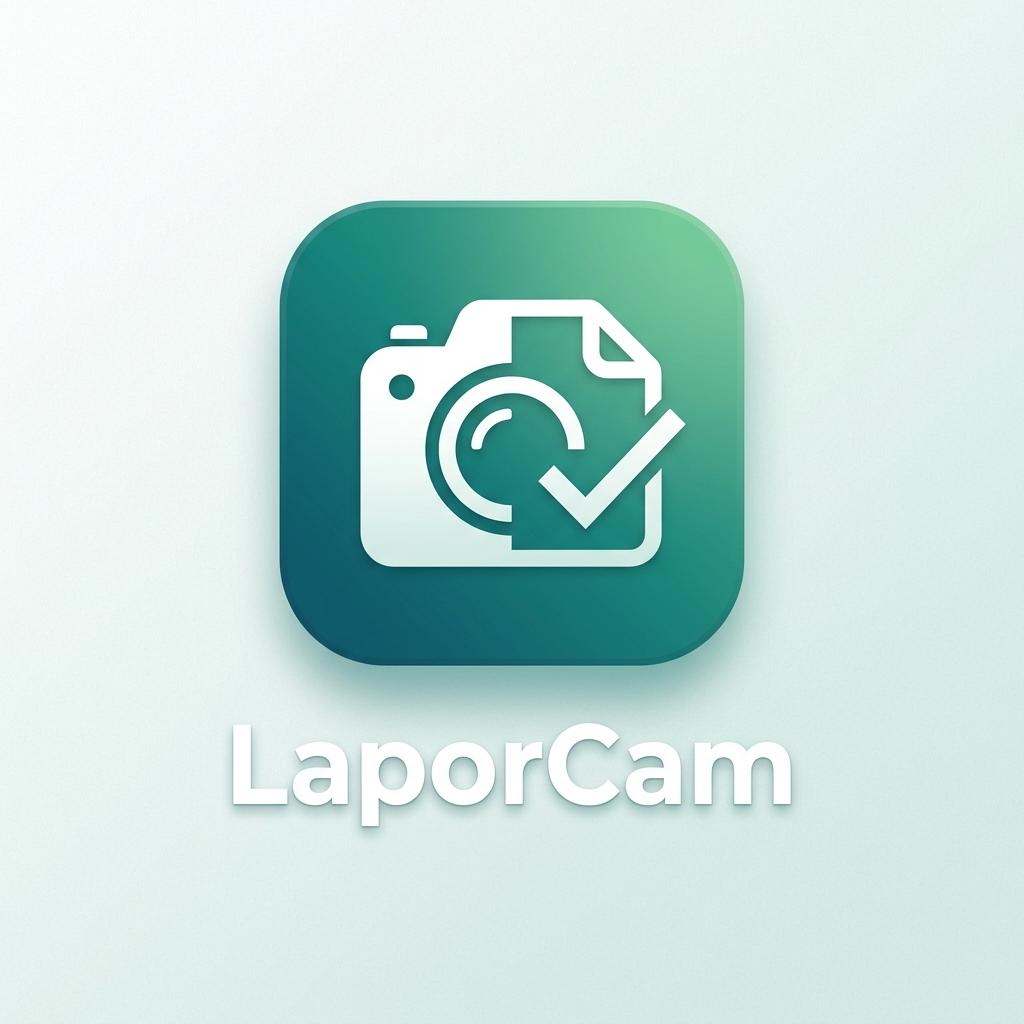
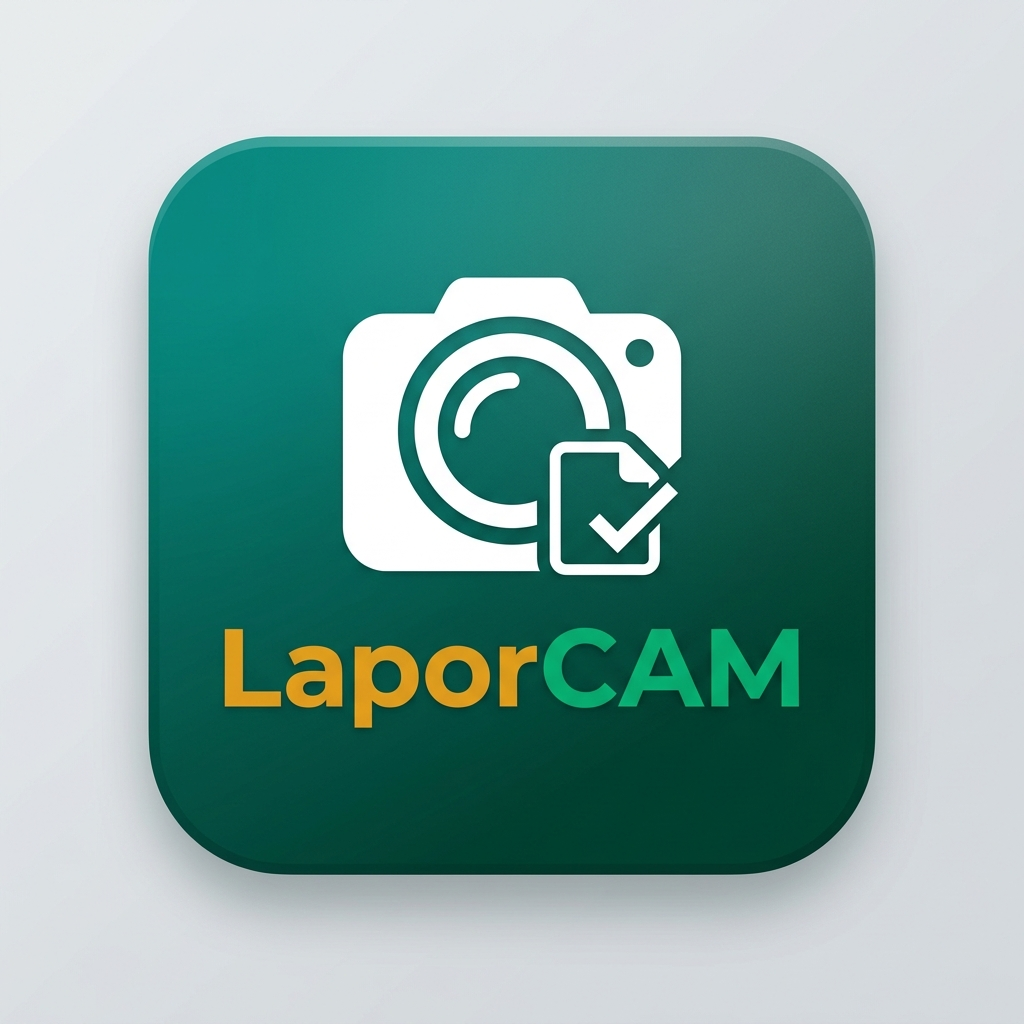
LaporCAM

diff --git a/style-mobile.css b/style-mobile.css
@@ -5,26 +5,28 @@
 
 @media (max-width: 768px) {
 
-  /* ----- RESET BODY AGAR BISA SCROLL PROPORSIAL ----- */
+  /* ----- RESET BODY TOTAL NO-SCROLL (FIT LAYAR HP) ----- */
   html, body {
-    overflow-x: hidden !important;
-    overflow-y: auto !important;
-    height: 100% !important;
-    min-height: 100dvh !important; /* Menggunakan Dynamic Viewport Height */
+    overflow: hidden !important; /* Blokir total scrolling luar */
+    height: 100dvh !important;
+    min-height: 100dvh !important;
     background-color: #f1f5f9 !important;
+    margin: 0 !important;
+    padding: 0 !important;
   }
 
   /* ----- APP CONTAINER ----- */
   .app-container {
     width: 100% !important;
     max-width: 100vw !important;
+    height: 100dvh !important;
+    max-height: 100dvh !important;
     padding: 8px !important;
-    height: auto !important;
-    max-height: none !important;
     gap: 6px !important;
     box-sizing: border-box !important;
     display: flex !important;
     flex-direction: column !important;
+    overflow: hidden !important; /* Kunci semua elemen agar muat satu layar */
     /* Ruang untuk bottom nav */
     padding-bottom: calc(72px + env(safe-area-inset-bottom)) !important;
   }
@@ -51,6 +53,7 @@
 
   .logo-icon i {
     font-size: 16px !important;
+    color: #0f172a !important; /* Diubah menjadi gelap arang agar sangat kontras dan terlihat jelas */
   }
 
   .logo-text h1 {
@@ -75,9 +78,11 @@
     border-radius: 16px !important;
     padding: 14px !important;
     gap: 10px !important;
-    overflow: visible !important;
+    overflow: hidden !important; /* Kunci main card */
     height: auto !important;
-    flex: none !important;
+    flex: 1 !important; /* Isi ruang sisa container secara fleksibel */
+    display: flex !important;
+    flex-direction: column !important;
   }
 
   /* ----- STEP INDICATOR (Sembunyikan di mobile) ----- */
@@ -89,8 +94,9 @@
   .step-content {
     display: none !important;
     flex-direction: column !important;
-    overflow: visible !important;
+    overflow: hidden !important; /* Kunci content */
     height: auto !important;
+    flex: 1 !important; /* Isi ruang sisa card */
   }
 
   .step-content.active {
@@ -119,9 +125,11 @@
     display: flex !important;
     flex-direction: column !important;
     gap: 8px !important;
-    overflow: visible !important;
-    height: auto !important;
+    overflow-y: auto !important; /* Scroll hanya terjadi di dalam form saja jika melebihi layar */
+    -webkit-overflow-scrolling: touch !important;
+    flex: 1 !important;
     width: 100% !important;
+    padding-right: 2px !important;
   }
 
   /* form-row (Hari & Tanggal + Waktu) tetap 2 kolom tapi kompak */

diff --git a/index.html b/index.html
@@ -22,8 +22,8 @@
   <link rel="icon" type="image/png" href="icon-192.png">
   
   <!-- Custom CSS -->
-  <link rel="stylesheet" href="style.css?v=2.8">
-  <link rel="stylesheet" href="style-mobile.css?v=2.8">
+  <link rel="stylesheet" href="style.css?v=3.0">
+  <link rel="stylesheet" href="style-mobile.css?v=3.0">
   <!-- jsPDF & html2canvas -->
   <script src="https://cdnjs.cloudflare.com/ajax/libs/jspdf/2.5.1/jspdf.umd.min.js"></script>
   <script src="https://cdnjs.cloudflare.com/ajax/libs/html2canvas/1.4.1/html2canvas.min.js"></script>

diff --git a/sw.js b/sw.js
@@ -1,5 +1,5 @@
 // Service Worker LaporCam PWA
-const CACHE_NAME = 'laporcam-v1';
+const CACHE_NAME = 'laporcam-v3';
 const urlsToCache = [
   '/app_cam_laporan/',
   '/app_cam_laporan/index.html',
